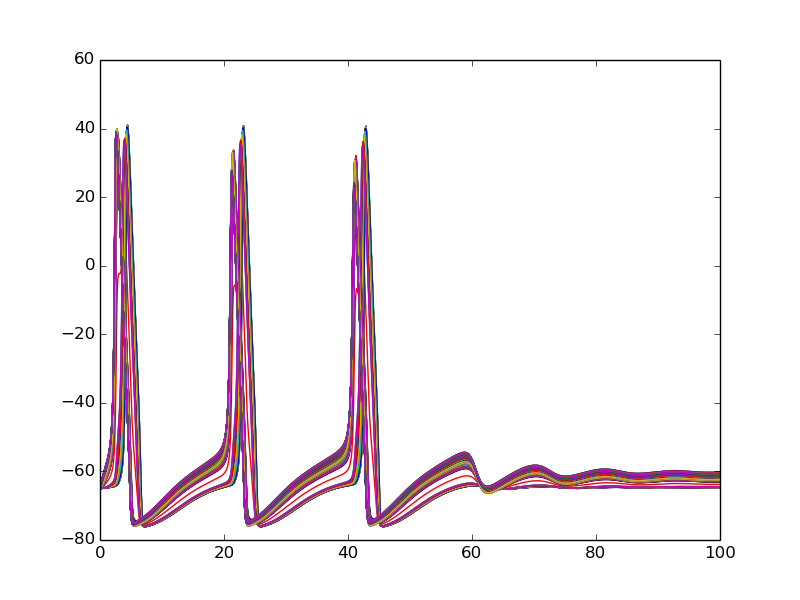
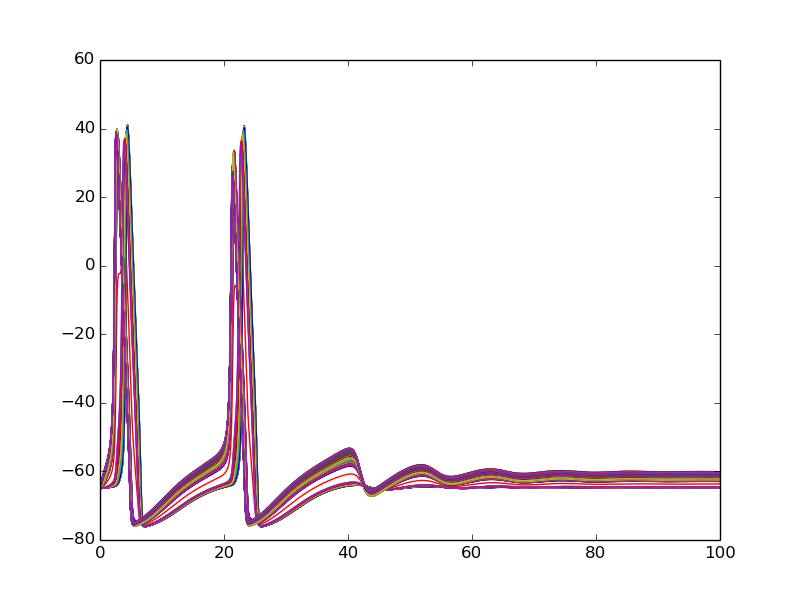
Modified xplot.

Changed region(s): [[0.25, 0.21, 0.9062, 0.9]]

diff --git a/moose_nrn_equivalence_testing/comparision_with_simple_HH_model/xplot.py b/moose_nrn_equivalence_testing/comparision_with_simple_HH_model/xplot.py
@@ -4,7 +4,7 @@
 
     This program uses matplotlib to plot xplot like data.
 
-Last modified: Fri May 23, 2014  01:40AM
+Last modified: Thu Jul 23, 2015  04:54PM
 
 """
     
@@ -53,7 +53,8 @@ def zipIt(ys):
             result[i].append(e)
     return result
 
-def plotData( outFile = None ):
+def plotData( args ):
+    outFile = args.output
     global data 
     for file in data:
         xvec, yx = data[file]
@@ -64,6 +65,8 @@ def plotData( outFile = None ):
             sys.exit(0)
         for yvec in yvecs:
             pylab.plot(xvec, yvec)
+    if args.title:
+        pylab.title(str(args.title))
     if not outFile:
         pylab.show()
     else:
@@ -81,6 +84,10 @@ if __name__ == "__main__":
             , default = None
             , help = "Output file to store plot"
             )
+    parser.add_argument("-t", "--title"
+            , default = ""
+            , help = "Title of the plot"
+            )
     args = parser.parse_args()
     [ buildData(file) for file in args.file ]
-    plotData( outFile = args.output )
+    plotData( args )

diff --git a/moose_nrn_equivalence_testing/comparision_with_simple_HH_model/moose_to_neuron.py b/moose_nrn_equivalence_testing/comparision_with_simple_HH_model/moose_to_neuron.py
@@ -77,11 +77,10 @@ def create_section_in_neuron(mooseCompt):
     # In this particular script, we just add the hh mechanism and nothing else.
     # Make sure that MOOSE only has HH-Mehcanism loaded. Passive properties must
     # be same as HH mehcanism.
-    params.append('insert hh')
-    #for chanVec in channels:
-    #    for chan in chanVec:
-    #        mech = chan.name
-    #        params.append(write_mechanism_line(chan, props))
+    for chanVec in channels:
+        for chan in chanVec:
+            mech = chan.name
+            params.append(write_mechanism_line(chan, props))
     text.append("\n\t".join(params))
     text.append("}\n\n")
     return "\n".join(text)
